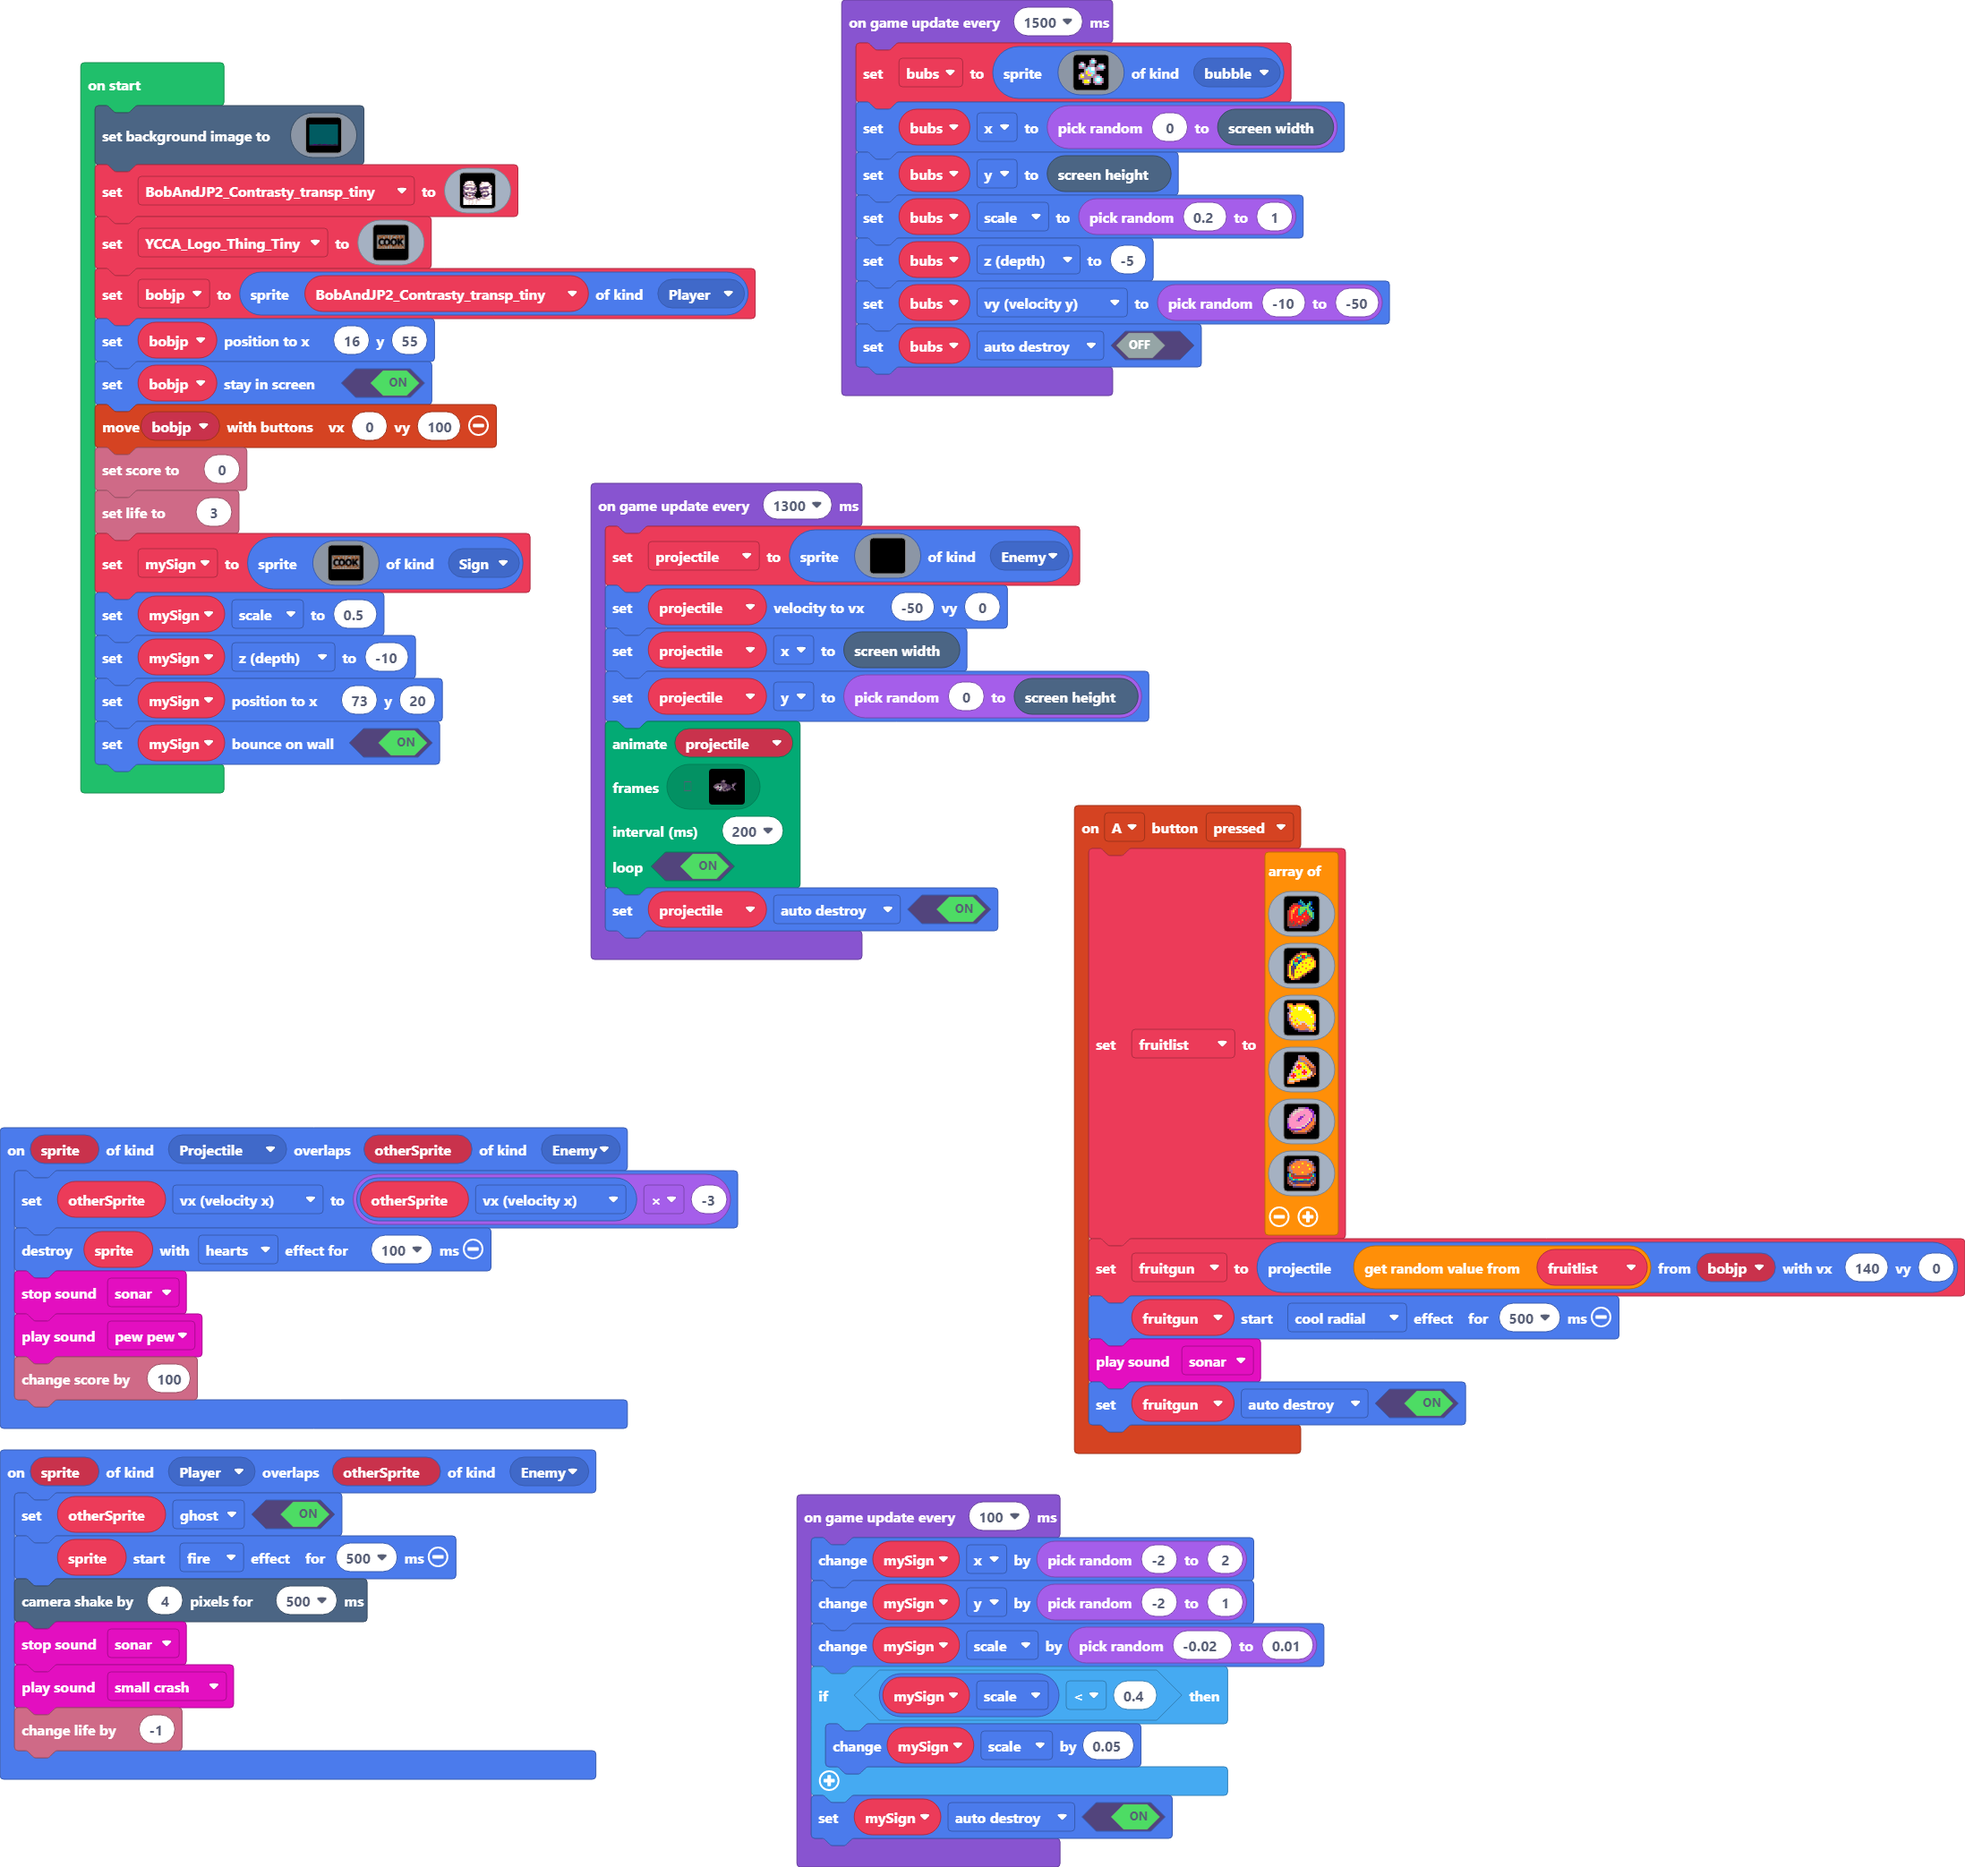
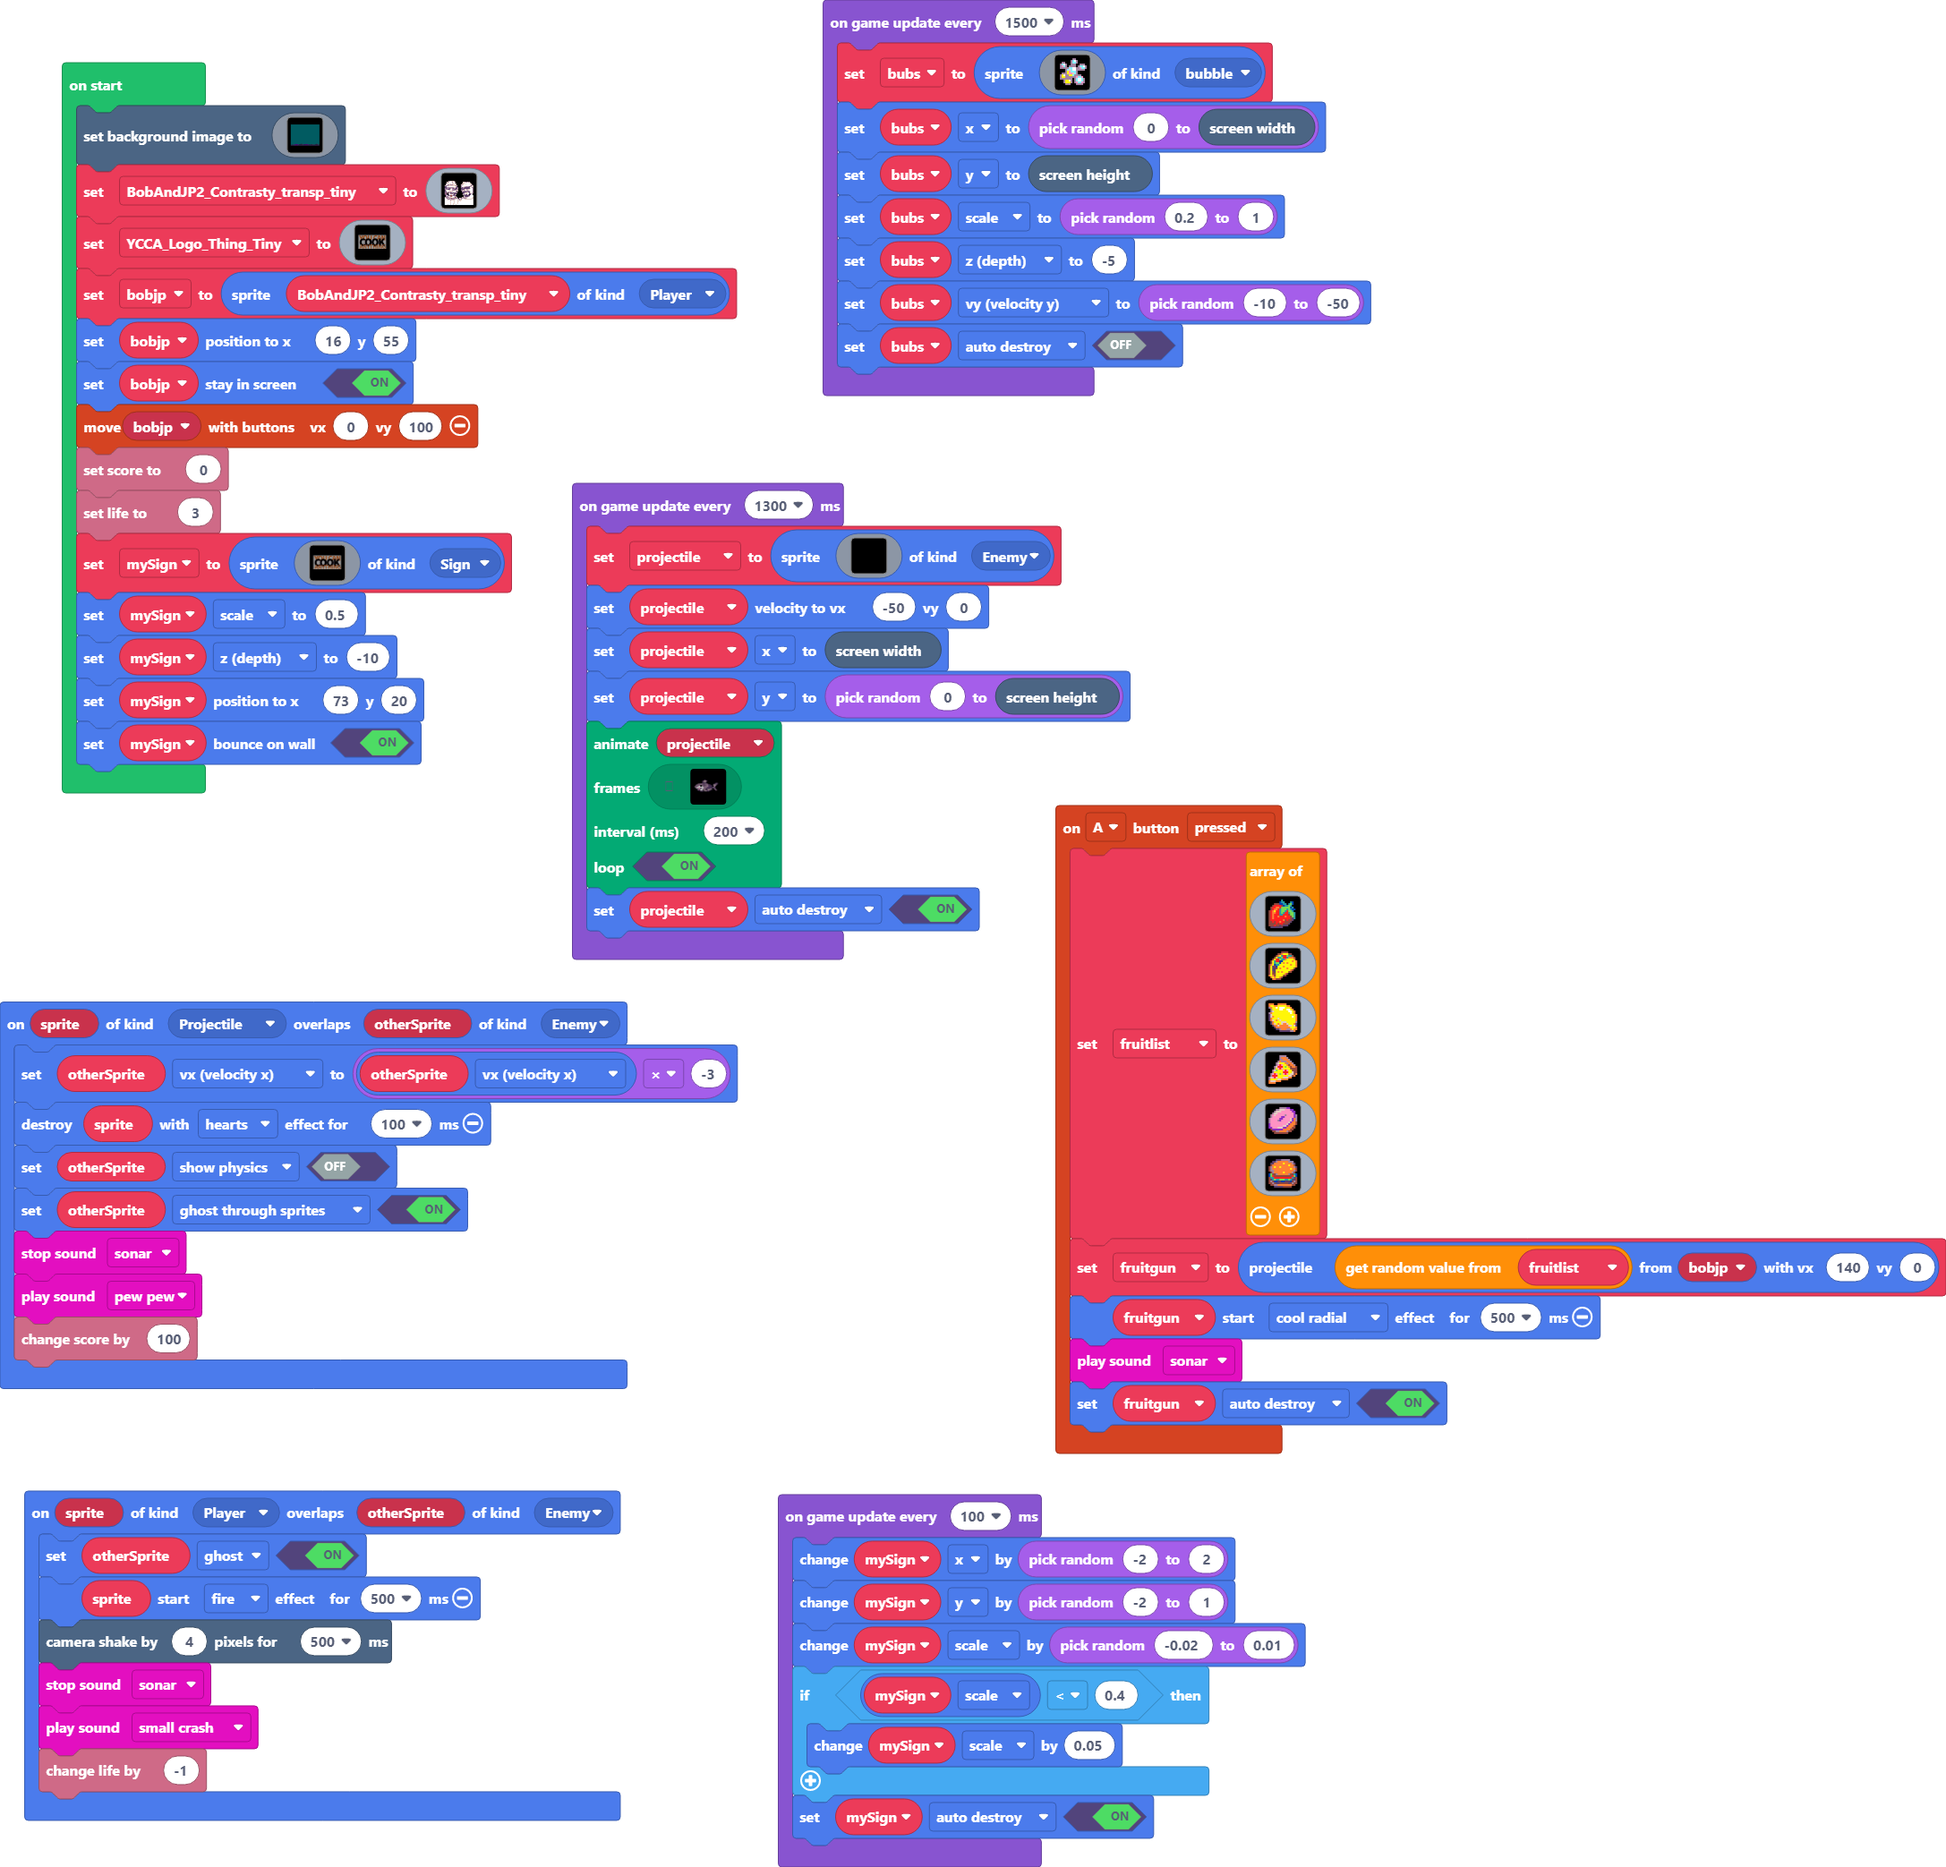
Fix shark double-hits

diff --git a/main.ts b/main.ts
@@ -121,6 +121,8 @@ controller.A.onEvent(ControllerButtonEvent.Pressed, function () {
 sprites.onOverlap(SpriteKind.Projectile, SpriteKind.Enemy, function (sprite, otherSprite) {
     otherSprite.vx = otherSprite.vx * -3
     sprite.destroy(effects.hearts, 100)
+    otherSprite.setFlag(SpriteFlag.ShowPhysics, false)
+    otherSprite.setFlag(SpriteFlag.GhostThroughSprites, true)
     music.sonar.stop()
     music.pewPew.play()
     info.changeScoreBy(100)
